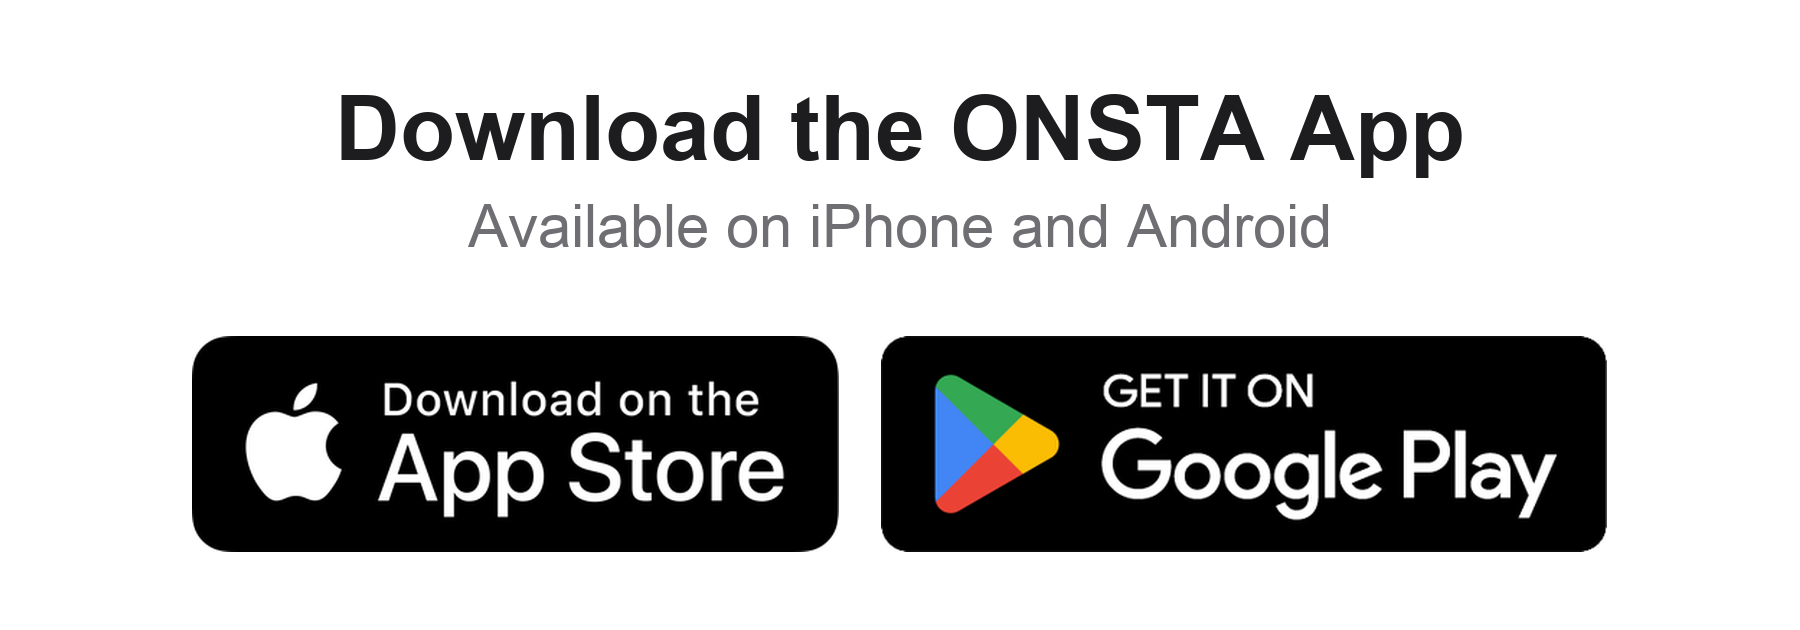
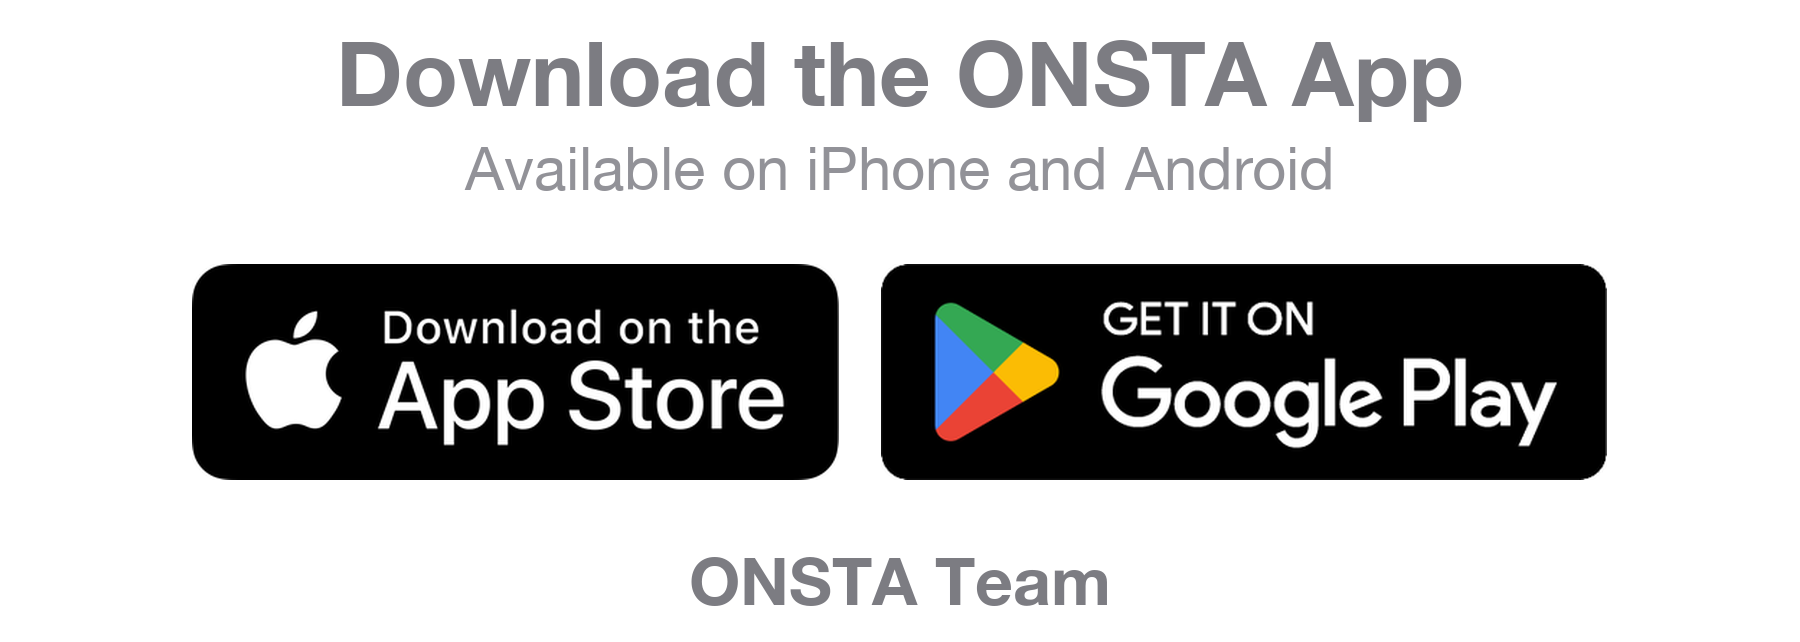
One centered signature image with ONSTA Team; copy clean HTML only

diff --git a/index.html b/index.html
@@ -3,47 +3,65 @@
 <head>
 <meta charset="utf-8">
 <meta name="viewport" content="width=device-width, initial-scale=1">
-<title>ONSTA Buttons</title>
+<title>ONSTA Signature</title>
 <style>
-  body{margin:0;padding:24px 16px;font-family:-apple-system,Tahoma,Arial,sans-serif;background:#f4f5f7;color:#1f2a30}
-  .box{max-width:480px;margin:0 auto;background:#fff;border-radius:14px;padding:20px}
-  h1{font-size:18px;margin:0 0 12px}
-  ol{padding-right:20px;line-height:1.9;margin:0 0 20px;font-size:15px}
-  .copy{border:2px dashed #c8ced4;border-radius:10px;padding:16px;background:#fff;text-align:center}
+  /* No background colors anywhere: copied content must not carry a background. */
+  body{margin:0;padding:24px 16px;font-family:-apple-system,Tahoma,Arial,sans-serif;max-width:460px;margin:0 auto}
+  h1{font-size:19px;margin:0 0 12px}
+  ol{padding-right:20px;line-height:1.9;margin:0 0 18px;font-size:15px}
+  #cp{display:block;width:100%;padding:16px;margin:0 0 20px;font-size:18px;font-weight:bold;color:#fff;background:#2563eb;border:0;border-radius:12px;font-family:inherit}
+  #sig{text-align:center;direction:ltr}
+  #sig img{max-width:100%;height:auto}
 </style>
 </head>
 <body>
-<div class="box">
-  <h1>أزرار ONSTA للتوقيع</h1>
-  <ol>
-    <li>اضغط الزر الأزرق "انسخ التوقيع"</li>
-    <li>أوتلوك ← الإعدادات ← التوقيع ← امسح كل شي ← الصق</li>
-    <li>اكتب مسافة وامسحها، وبعدها اضغط ✓</li>
-  </ol>
-  <button id="cp" style="display:block;width:100%;padding:16px;margin:0 0 16px;font-size:18px;font-weight:bold;color:#fff;background:#2563eb;border:0;border-radius:10px;font-family:inherit">انسخ التوقيع</button>
-  <div class="copy" id="btns"><div dir="ltr" align="center" style="direction:ltr;text-align:center"><center><b style="font-size:17px">Download the ONSTA App</b><br><span style="font-size:13px;opacity:0.7">Available on iPhone and Android</span><br><br><a href="https://hasanainhelcoo.github.io/onsta-email-assets/ios/"><img src="https://hasanainhelcoo.github.io/onsta-email-assets/app-store.png?v=2" alt="Download on the App Store" width="126" height="42" style="border:0;width:126px;height:42px"></a>&nbsp;<a href="https://hasanainhelcoo.github.io/onsta-email-assets/android/"><img src="https://hasanainhelcoo.github.io/onsta-email-assets/google-play.png?v=2" alt="Get it on Google Play" width="141" height="42" style="border:0;width:141px;height:42px"></a><br><br><b>ONSTA Team</b></center></div></div>
-</div>
+<h1>توقيع ONSTA</h1>
+<ol>
+  <li>اضغط "انسخ التوقيع"</li>
+  <li>أوتلوك ← الإعدادات ← التوقيع ← امسح كل شي ← الصق ← ✓</li>
+</ol>
+<button id="cp" type="button">انسخ التوقيع</button>
+<div id="sig"><a href="https://hasanainhelcoo.github.io/onsta-email-assets/get/"><img src="https://hasanainhelcoo.github.io/onsta-email-assets/signature.png?v=6" alt="Download the ONSTA App - App Store and Google Play - ONSTA Team" width="398" height="142"></a></div>
 <script>
-document.getElementById('cp').addEventListener('click', function () {
-  var btn = this, box = document.getElementById('btns');
-  var ok = false;
-  try {
-    box.setAttribute('contenteditable', 'true');
-    var r = document.createRange(); r.selectNodeContents(box);
-    var sel = window.getSelection(); sel.removeAllRanges(); sel.addRange(r);
-    ok = document.execCommand('copy');
-    sel.removeAllRanges();
-  } catch (e) { ok = false; }
-  box.removeAttribute('contenteditable');
+(function () {
+  var URL = 'https://hasanainhelcoo.github.io/onsta-email-assets/';
+  // Exactly what goes on the clipboard: one linked image plus a zero-width space,
+  // so Outlook sees real text and keeps the signature. No colors, no backgrounds.
+  var HTML = '<a href="' + URL + 'get/"><img src="' + URL + 'signature.png?v=6" ' +
+    'alt="Download the ONSTA App - App Store and Google Play - ONSTA Team" width="398" height="142" ' +
+    'style="border:0;width:398px;height:142px;max-width:100%"></a>&#8203;';
+  var TEXT = 'Download the ONSTA App\nONSTA Team';
+  var btn = document.getElementById('cp');
+
   function done() { btn.textContent = 'تم النسخ ✓ روح الصقه بأوتلوك'; btn.style.background = '#16a34a'; }
-  if (ok) { done(); return; }
-  if (navigator.clipboard && window.ClipboardItem) {
-    navigator.clipboard.write([new ClipboardItem({
-      'text/html': new Blob([box.innerHTML], {type: 'text/html'}),
-      'text/plain': new Blob(['Download the ONSTA App\nAvailable on iPhone and Android\nONSTA Team'], {type: 'text/plain'})
-    })]).then(done, function () { btn.textContent = 'ما انسخ، جرّب مرة ثانية'; });
-  }
-});
+  function fail() { btn.textContent = 'ما انسخ، اضغط مرة ثانية'; btn.style.background = '#dc2626'; }
+
+  btn.addEventListener('click', function () {
+    var handled = false;
+    function onCopy(e) {
+      e.clipboardData.setData('text/html', HTML);
+      e.clipboardData.setData('text/plain', TEXT);
+      e.preventDefault();
+      handled = true;
+    }
+    document.addEventListener('copy', onCopy);
+    // iOS needs a selection for the copy command to fire.
+    var sel = window.getSelection(), r = document.createRange();
+    r.selectNodeContents(document.getElementById('sig'));
+    sel.removeAllRanges(); sel.addRange(r);
+    var ok = false;
+    try { ok = document.execCommand('copy'); } catch (e) {}
+    sel.removeAllRanges();
+    document.removeEventListener('copy', onCopy);
+    if (ok && handled) { done(); return; }
+    if (navigator.clipboard && window.ClipboardItem) {
+      navigator.clipboard.write([new ClipboardItem({
+        'text/html': new Blob([HTML], {type: 'text/html'}),
+        'text/plain': new Blob([TEXT], {type: 'text/plain'})
+      })]).then(done, fail);
+    } else { fail(); }
+  });
+})();
 </script>
 </body>
 </html>
